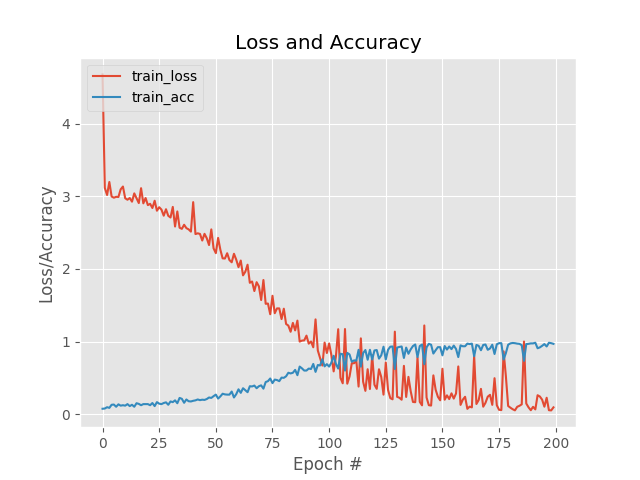
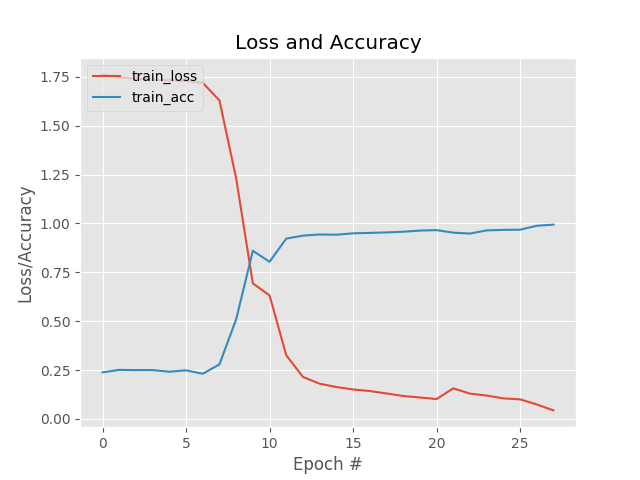
Adding instrument selection.

diff --git a/src/data_handler.py b/src/data_handler.py
@@ -1,5 +1,6 @@
 import pickle
 import numpy as np
+
 from keras.utils import np_utils
 from helper import constant
 from music21 import converter, instrument, note, chord, midi, stream
@@ -40,42 +41,49 @@ class DataHandler:
     def load_partition(self, args):
         notes = []
         offsets = []
-        instrument_name = args['instrument']
 
         try:
             with open(args["file"], 'rb') as file:
-                instrument_found = False
                 midi_song = converter.parse(file.read())
-                partitions = instrument.partitionByInstrument(midi_song)
+                instrument_name, partition = self.choose_instrument_partition(midi_song)
 
-                if not partitions:
-                    raise ValueError('partitions not found.')
+                for element in partition.flat.notes:
+                    offsets.append(element.offset)
+                    if isinstance(element, note.Note):
+                        notes.append(str(element.pitch))
+                    elif isinstance(element, chord.Chord):
+                        notes.append('.'.join(str(n) for n in element.normalOrder))
 
-                for partition in partitions:
-                    if partition.id == instrument_name:
-                        instrument_found = True
-                        selected_partition = partition
-
-                        for element in selected_partition.flat.notes:
-                            offsets.append(element.offset)
-                            if isinstance(element, note.Note):
-                                notes.append(str(element.pitch))
-                            elif isinstance(element, chord.Chord):
-                                notes.append('.'.join(str(n) for n in element.normalOrder))
-
-                        self.save_instrument_and_notes(instrument_name, notes)
-                        print("[INFO] song {} partition loaded".format(file.name))
-
-                if not instrument_found:
-                    raise ValueError('Instrument not found in the music.')
-
+                self.save_instrument_and_notes(instrument_name, notes)
+                print("[INFO] song {} partition loaded".format(file.name))
                 print("[INFO] Done loading MIDI file...")
+
         except (IndexError, ValueError, midi.MidiException) as e:
             print('[ERROR] An error happened during song loading: {}. Quitting...'.format(file.name))
             print(e)
             exit()
 
         return notes, offsets
+
+    def choose_instrument_partition(self, midi_song):
+        instrument_name = None
+        song_instruments = []
+        partitions = instrument.partitionByInstrument(midi_song)
+        input_question = "Please select one of the instrument for music generation:"
+
+        if not partitions:
+            raise ValueError('partitions not found.')
+
+        for partition in partitions:
+            if partition.id:
+                song_instruments.append(partition.id)
+                input_question += "\n\t" + partition.id
+
+        input_question += '\n:'
+        while instrument_name not in song_instruments:
+            instrument_name = input(input_question)
+
+        return instrument_name, partitions.getElementById(instrument_name)
 
     def save_instrument_and_notes(self, instrument_name, notes):
         with open(constant.NOTE_PATH, 'wb') as note_path:
@@ -86,26 +94,27 @@ class DataHandler:
 
     def save_midi(self, args, prediction_output):
         offset = 0
-        chosen_instrument = instrument.fromString(args['instrument'])
 
-        partition = stream.Part()
-        partition.insert(chosen_instrument)
+        with open(args["instrument"], 'rb') as instrument_path:
+            chosen_instrument = instrument.fromString(pickle.load(instrument_path))
+            partition = stream.Part()
+            partition.insert(chosen_instrument)
 
-        for pattern in prediction_output:
-            if ('.' in pattern) or pattern.isdigit():
-                notes_in_chord = pattern.split('.')
-                notes = []
-                for current_note in notes_in_chord:
-                    new_note = note.Note(int(current_note))
-                    notes.append(new_note)
-                partition.insert(offset, chord.Chord(notes))
-            else:
-                partition.insert(offset, note.Note(pattern))
+            for pattern in prediction_output:
+                if ('.' in pattern) or pattern.isdigit():
+                    notes_in_chord = pattern.split('.')
+                    notes = []
+                    for current_note in notes_in_chord:
+                        new_note = note.Note(int(current_note))
+                        notes.append(new_note)
+                    partition.insert(offset, chord.Chord(notes))
+                else:
+                    partition.insert(offset, note.Note(pattern))
 
-            offset += 0.5
+                offset += 0.5
 
-        midi_stream = stream.Stream()
-        midi_stream.insert(0, partition)
-        midi_stream.show("text")
+            midi_stream = stream.Stream()
+            midi_stream.insert(0, partition)
+            midi_stream.show("text")
 
-        midi_stream.write('midi', fp=constant.NEW_MUSIC)
+            midi_stream.write('midi', fp=constant.NEW_MUSIC)

diff --git a/src/train_nn.py b/src/train_nn.py
@@ -7,16 +7,8 @@ os.environ['TF_CPP_MIN_LOG_LEVEL'] = '3'
 
 ap = argparse.ArgumentParser()
 ap.add_argument("-d", "--dataset", default=constant.DATASET_PATH, help="path to input dataset")
+ap.add_argument("-f", "--file", required=True, type=str, help="the MIDI file from which the new song will me generated")
 ap.add_argument("-p", "--plot", type=str, default=constant.PLOT_PATH, help="path to output accuracy/loss plot")
-ap.add_argument("-f", "--file", type=str, help="the MIDI file from which the new song will me generated")
-ap.add_argument(
-    "-i",
-    "--instrument",
-    type=str,
-    choices=['Electric Guitar', 'Piano'],
-    default=constant.DESIRED_INSTRUMENT,
-    help="instrument for the new song"
-)
 
 args = vars(ap.parse_args())
 

diff --git a/src/helper/constant.py b/src/helper/constant.py
@@ -1,15 +1,13 @@
+BATCH_SIZE = 64
 DATASET_PATH = "dataset"
 DATASET_FORMAT = "*.mid"
-SEQUENCE_LENGTH = 15
-OUTPUT_LENGTH = 100
-MAX_NOTES = 72000
-BATCH_SIZE = 64
-DESIRED_INSTRUMENT = "Electric Guitar"
+EPOCHS = 200
+INSTRUMENT_PATH = "output/instrument"
+LEARNING_RATE = 1e-3
 MODEL_LOSS = "categorical_crossentropy"
 MODEL_PATH = "output/blues-generator.h5"
-INSTRUMENT_PATH = "output/instrument"
+NEW_MUSIC = "output/new_music.mid"
 NOTE_PATH = "output/notes"
 PLOT_PATH = "output/plot.png"
-NEW_MUSIC = "output/new_music.mid"
-LEARNING_RATE = 1e-3
-EPOCHS = 200
+SEQUENCE_LENGTH = 50
+OUTPUT_LENGTH = 50

diff --git a/src/neural_network.py b/src/neural_network.py
@@ -8,7 +8,7 @@ from network_model import NetworkModel
 class StopTrainingCallback(tf.keras.callbacks.Callback):
     def on_epoch_end(self, epoch, logs=None):
         if logs and logs.get('acc') and logs.get('acc') > 0.99:
-            print("\n[INFO] Reached 98% accuracy, stopping training.")
+            print("\n[INFO] Reached 99% accuracy, stopping training.")
             self.model.stop_training = True
 
 

diff --git a/src/network_model.py b/src/network_model.py
@@ -27,7 +27,7 @@ class NetworkModel:
 
         model.compile(
             loss=constant.MODEL_LOSS,
-            optimizer='rmsprop',
+            optimizer='adam',
             metrics=['acc']
         )
 
